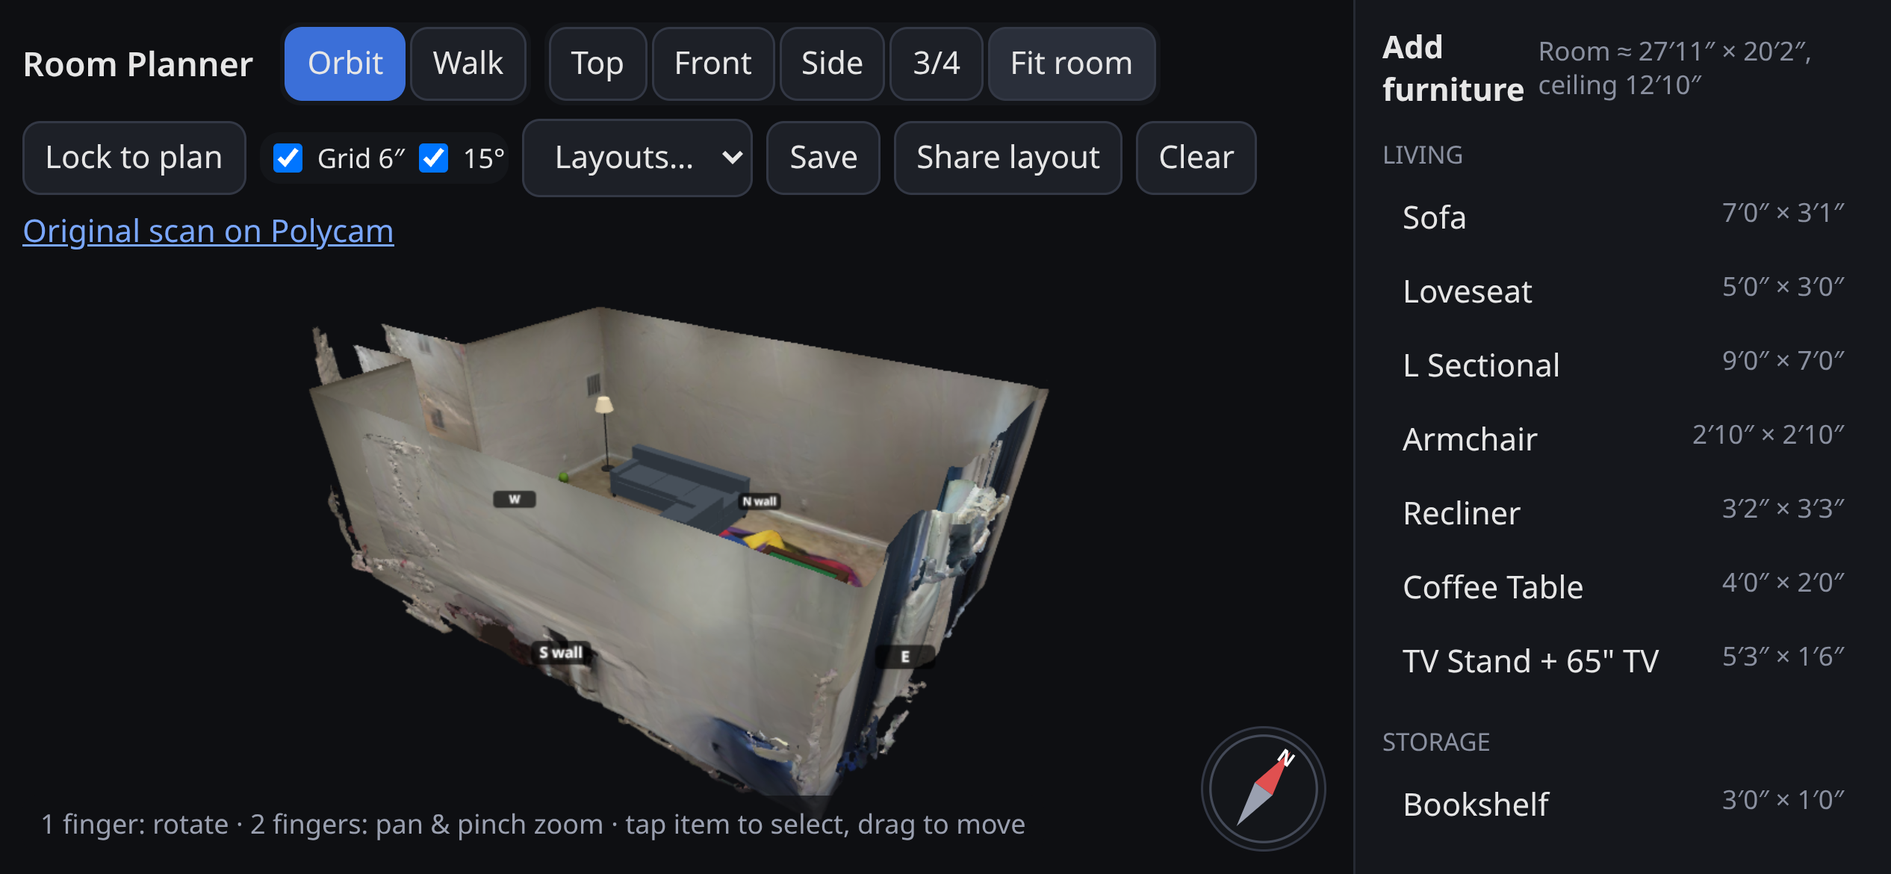
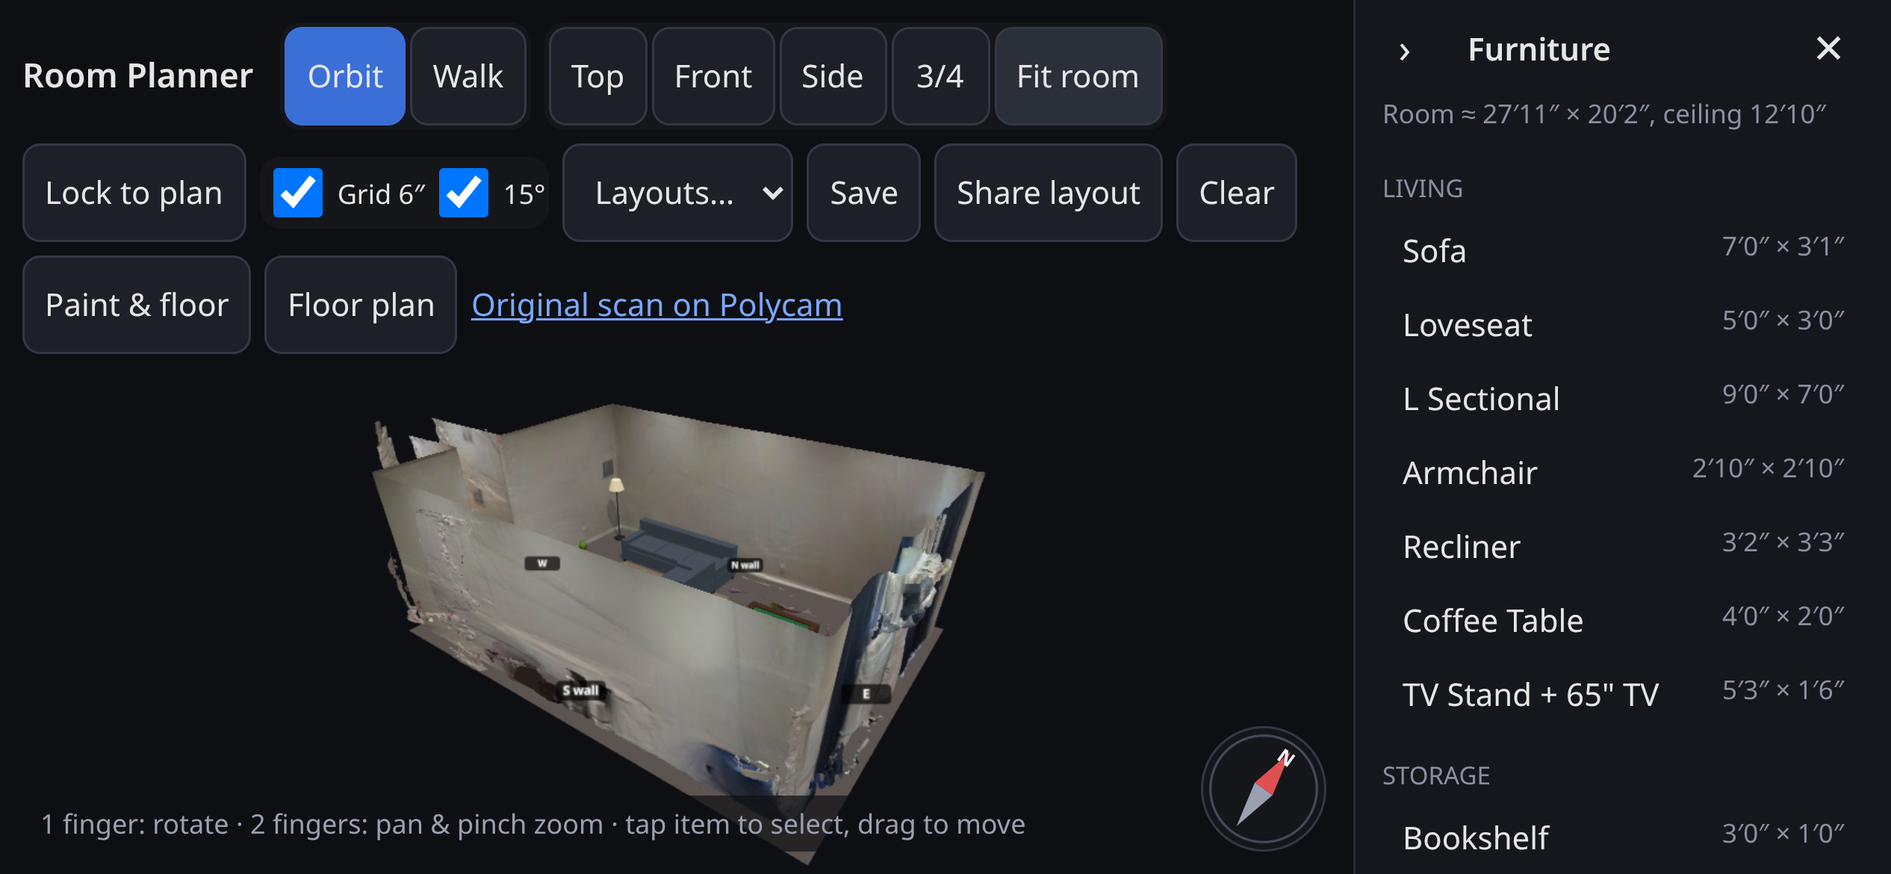
Floor plan export, paint & flooring preview, hide-clutter toggle

diff --git a/index.html b/index.html
@@ -17,6 +17,11 @@ button,select,input{background:#1d2027;color:#e6e6e6;border:1px solid #333845;bo
 #compass{position:absolute;right:12px;top:58px;width:56px;height:56px;border-radius:50%;background:#15171cd0;border:1px solid #333845}
 #compass svg{width:100%;height:100%;transition:transform .05s}
 #joy{position:absolute;left:24px;bottom:60px;width:110px;height:110px;border-radius:50%;background:#ffffff14;border:1px solid #ffffff30;display:none;touch-action:none}#joy i{position:absolute;left:35px;top:35px;width:40px;height:40px;border-radius:50%;background:#ffffff50}
+.card{position:absolute;top:110px;left:10px;width:280px;max-width:calc(100% - 20px);background:#15171cf5;border:1px solid #2a2f3a;border-radius:12px;padding:12px;display:none;z-index:4}.card.open{display:block}
+.ch{display:flex;justify-content:space-between;align-items:center}.x{min-width:44px;min-height:44px;background:none;border:0;font-size:16px}.lbl{color:#8a90a0;font-size:11px;text-transform:uppercase;margin:8px 0 4px}
+#sw,#fl{display:flex;flex-wrap:wrap;gap:6px}.swb{width:44px;height:44px;border-radius:10px;padding:0;border:2px solid #333845}.swb.on,.flb.on{outline:2px solid #4d8dff;outline-offset:1px}.flb{min-height:44px;padding:0 10px;display:flex;align-items:center;gap:6px}.flb i{width:24px;height:24px;border-radius:5px;background-size:cover;display:inline-block}
+#planM{position:fixed;inset:0;background:#000b;display:none;align-items:center;justify-content:center;z-index:20;padding:12px}#planM.open{display:flex}#planM .pc{background:#15171c;border-radius:12px;padding:12px;max-width:100%;max-height:100%;overflow:auto}#planImg{display:block;max-width:min(1000px,100%);max-height:70vh;background:#fff;border-radius:6px}
+@media print{body>*:not(#planM){display:none!important}#planM{position:static;background:#fff;display:block!important;padding:0}#planM .ch,#planM .pc>div:last-child{display:none!important}#planM .pc{background:#fff;padding:0}#planImg{max-width:100%;max-height:none;width:100%}@page{size:landscape;margin:10mm}}
 #toast{position:absolute;top:60px;left:50%;transform:translateX(-50%);background:#3b6fd8;padding:8px 14px;border-radius:8px;display:none}
 #load{position:fixed;inset:0;display:flex;align-items:center;justify-content:center;font-size:16px;background:#0e0f12;z-index:9}
 @media(pointer:coarse){button,select{min-height:44px;min-width:44px}input[type=checkbox]{width:22px;height:22px}}
@@ -33,16 +38,20 @@ label{display:flex;gap:4px;align-items:center;font-size:12px}
 <div class="grp"><button data-v="top">Top</button><button data-v="front">Front</button><button data-v="side">Side</button><button data-v="iso">3/4</button><button id="fit" title="F">Fit room</button></div>
 <button id="lock">Lock to plan</button>
 <div class="grp"><label><input type="checkbox" id="snapG" checked>Grid 6″</label><label><input type="checkbox" id="snapA" checked>15°</label></div>
-<select id="layouts"><option value="">Layouts…</option></select><button id="save">Save</button><button id="share">Share layout</button><button id="clear">Clear</button>
+<select id="layouts"><option value="">Layouts…</option></select><button id="save">Save</button><button id="share">Share layout</button><button id="clear">Clear</button><button id="paintBtn">Paint & floor</button><button id="planBtn">Floor plan</button>
 <a href="https://poly.cam/capture/0503709E-BDD0-4D62-BD74-C1BD9F886780" target="_blank" rel="noopener">Original scan on Polycam</a></div>
 <div id="compass" title="Compass: N is the far wall in Top view"><svg viewBox="-50 -50 100 100"><circle r="44" fill="none" stroke="#444a58" stroke-width="2"/><path d="M0-38L9 0H-9Z" fill="#e05050"/><path d="M0 38L9 0H-9Z" fill="#9aa0b0"/><text y="-22" text-anchor="middle" fill="#fff" font-size="16" font-weight="700" transform="translate(0,-4)">N</text></svg></div>
 <div id="sel"><b id="selName"></b><small id="selDim" style="color:#8a90a0"></small><label>↻<input type="range" id="rotS" min="0" max="359" step="15" style="width:110px"><span id="rotV"></span></label><input type="color" id="col"><button id="dup">Duplicate</button><button id="del">Delete</button><button id="desel">Done</button></div>
+<div id="paint" class="card"><div class="ch"><b>Paint & flooring</b><button class="x" data-close="paint">✕</button></div>
+<div class="lbl">Walls</div><div id="sw"></div><label style="margin-top:6px">Custom <input type="color" id="wallPick" value="#cfc6b8"></label>
+<div class="lbl">Floor</div><div id="fl"></div><label style="margin-top:10px;min-height:44px"><input type="checkbox" id="hideC" checked style="width:22px;height:22px"> Hide clutter (inflatable &amp; floor items)</label><button id="paintReset" style="margin-top:10px;width:100%">Reset to original scan</button></div>
 <div id="joy"><i></i></div><div id="toast"></div><div id="hint"></div></div>
-<div id="side"><div id="handle"><i id="grip"></i><button class="hb" id="ptog" title="Minimize/expand panel (P)" aria-label="Toggle panel">›</button><span id="ptitle">Furniture</span><button class="hb" id="pclose" title="Hide panel" aria-label="Hide panel">✕</button></div><small id="roomdim"></small><div id="list"></div></div><button id="pill" aria-label="Show furniture panel">☰ Furniture</button>
+<div id="side"><div id="handle"><i id="grip"></i><button class="hb" id="ptog" title="Minimize/expand panel (P)" aria-label="Toggle panel">›</button><span id="ptitle">Furniture</span><button class="hb" id="pclose" title="Hide panel" aria-label="Hide panel">✕</button></div><small id="roomdim"></small><div id="list"></div></div><div id="planM"><div class="pc"><div class="ch"><b>Floor plan</b><button class="x" data-close="planM">✕</button></div><img id="planImg" alt="Floor plan"><div style="display:flex;gap:8px;flex-wrap:wrap;margin-top:10px"><button id="dlPng">Download PNG</button><button id="dlPdf">Download PDF</button><button id="prPlan">Print</button></div></div></div><button id="pill" aria-label="Show furniture panel">☰ Furniture</button>
 <script type="module">
 import * as THREE from 'three';import {OrbitControls} from 'three/addons/controls/OrbitControls.js';import {GLTFLoader} from 'three/addons/loaders/GLTFLoader.js';
-import {catalog,setColor} from './furniture.js';
+import {catalog,setColor} from './furniture.js';import {FLOORS,SWATCHES,patchRoom,applyPaint,U as PU,MASK,loadMask} from './paint.js';import {renderPlan} from './plan.js';
 const B={x0:-4.26,x1:4.26,z0:-3.07,z1:3.07,ceil:3.9};const EYE=1.676,ROOM_ROT=-1.58*Math.PI/180,GRID=0.1524;
+let paint={w:null,f:'scan',h:true};let wallPts=[];
 const touch=matchMedia('(pointer:coarse)').matches;
 const ft=m=>{const i=Math.round(m*39.3701);return `${Math.floor(i/12)}′${i%12}″`;};
 document.getElementById('roomdim').textContent=`Room ≈ ${ft(B.x1-B.x0)} × ${ft(B.z1-B.z0)}, ceiling ${ft(B.ceil)}`;
@@ -80,7 +89,9 @@ document.getElementById('fit').onclick=()=>{if(mode!=='orbit')setMode('orbit');g
 function setLock(on){locked=on;document.getElementById('lock').classList.toggle('on',on);oc.enableRotate=!on;if(on){if(mode!=='orbit')setMode('orbit');goView('top');}}
 document.getElementById('lock').onclick=()=>setLock(!locked);
 // load room
-let room;new GLTFLoader().load('room.glb',g=>{room=g.scene;room.rotation.y=ROOM_ROT;room.traverse(o=>{if(o.isMesh){o.receiveShadow=true;o.material.side=THREE.DoubleSide;o.material.clippingPlanes=[clip];}});S.add(room);window.roomLoaded=true;document.getElementById('load').remove();},undefined,()=>{document.getElementById('load').textContent='Could not load room scan';});
+const maskReady=loadMask('clutter-mask.png');
+const fill=new THREE.Mesh(new THREE.PlaneGeometry(B.x1-B.x0+0.4,B.z1-B.z0+0.4),new THREE.MeshStandardMaterial({color:0x615955,roughness:0.95}));fill.rotation.x=-Math.PI/2;fill.position.y=-0.006;fill.material.clippingPlanes=[clip];patchRoom(fill.material);S.add(fill);
+let room;new GLTFLoader().load('room.glb',g=>{room=g.scene;room.rotation.y=ROOM_ROT;room.traverse(o=>{if(o.isMesh){o.receiveShadow=true;o.material.side=THREE.DoubleSide;if(!o.geometry.attributes.normal)o.geometry.computeVertexNormals();o.material.clippingPlanes=[clip];patchRoom(o.material);}});room.updateMatrixWorld(true);maskReady.then(()=>{wallPts=collectWalls(room);applyPaint(paint);PU.uHide.value=paint.h===false?0:1;window.roomLoaded=true;});S.add(room);document.getElementById('load').remove();},undefined,()=>{document.getElementById('load').textContent='Could not load room scan';});
 // furniture list
 const byCat={};catalog.forEach(c=>(byCat[c.category]??=[]).push(c));const L=document.getElementById('list');
 for(const k in byCat){L.insertAdjacentHTML('beforeend',`<div class="cat">${k}</div>`);for(const c of byCat[k]){const d=document.createElement('div');d.className='item';d.innerHTML=`<span>${c.name}</span><small>${ft(c.dims.w)} × ${ft(c.dims.d)}</small>`;d.onclick=()=>{const t=mode==='orbit'?oc.target:cam.position;select(addItem(c.id,{x:t.x,z:t.z,r:0}));};L.appendChild(d);}}
@@ -145,8 +156,9 @@ function tick(){const dt=Math.min(clock.getDelta(),0.1);let az;
  csvg.style.transform=`rotate(${THREE.MathUtils.radToDeg(az)}deg)`;R.render(S,cam);requestAnimationFrame(tick);}
 resize();goView('iso',false);hint();tick();
 // layouts
-const ser=()=>items.map(o=>({i:o.userData.itemId,x:+o.position.x.toFixed(2),z:+o.position.z.toFixed(2),r:o.userData.rot,...(o.userData.color?{c:o.userData.color}:{})}));
-function load(arr){items.slice().forEach(o=>S.remove(o));items.length=0;select(null);(arr||[]).forEach(s=>addItem(s.i,s));}
+const serItems=()=>items.map(o=>({i:o.userData.itemId,x:+o.position.x.toFixed(2),z:+o.position.z.toFixed(2),r:o.userData.rot,...(o.userData.color?{c:o.userData.color}:{})}));
+const ser=()=>({items:serItems(),...(paint.w?{w:paint.w}:{}),...(paint.f&&paint.f!=='scan'?{f:paint.f}:{}),...(paint.h===false?{h:0}:{})});
+function load(data){const arr=Array.isArray(data)?data:(data?.items||[]);items.slice().forEach(o=>S.remove(o));items.length=0;select(null);arr.forEach(s=>addItem(s.i,s));setPaint(Array.isArray(data)?{}:{w:data?.w||null,f:data?.f||'scan',h:data?.h!==0});}
 const LS='basementLayouts';const getL=()=>JSON.parse(localStorage.getItem(LS)||'{}');
 function refreshL(){const s=document.getElementById('layouts');s.innerHTML='<option value="">Layouts…</option>'+Object.keys(getL()).map(k=>`<option>${k.replace(/</g,'&lt;')}</option>`).join('');}refreshL();
 document.getElementById('save').onclick=()=>{const n=prompt('Layout name','Layout '+(Object.keys(getL()).length+1));if(!n)return;const l=getL();l[n]=ser();localStorage.setItem(LS,JSON.stringify(l));refreshL();toast('Saved “'+n+'”');};
@@ -170,6 +182,26 @@ addEventListener('keydown',e=>{if(e.key.toLowerCase()==='p'&&!['INPUT','SELECT']
  h.addEventListener('pointercancel',()=>y0=null);}
 addEventListener('resize',()=>setPanel(panel,false));setPanel(panel,false);
 window.setPanel=setPanel;
-window.planner={items,addItem,ser,enc,dec,load,select,cam,goView,setLock,isAnimating:()=>!!anim,
+// ---- paint & floor
+function collectWalls(root){const out=[];const v=new THREE.Vector3(),n=new THREE.Vector3();root.traverse(o=>{if(!o.isMesh)return;const P=o.geometry.attributes.position,N=o.geometry.attributes.normal;if(!N)return;const nm=new THREE.Matrix3().getNormalMatrix(o.matrixWorld);const step=Math.max(1,Math.floor(P.count/60000));
+ for(let i=0;i<P.count;i+=step){n.fromBufferAttribute(N,i).applyMatrix3(nm).normalize();if(Math.abs(n.y)>0.3)continue;v.fromBufferAttribute(P,i).applyMatrix4(o.matrixWorld);if(v.y<0.4||v.y>2.2)continue;if(v.x<B.x0-0.3||v.x>B.x1+0.3||v.z<B.z0-0.3||v.z>B.z1+0.3)continue;out.push(v.x,v.z,MASK.test&&MASK.test(v.x,v.z)?1:0);}});return out;}
+function setPaint(p){paint={w:p.w||null,f:p.f||'scan',h:p.h!==false};applyPaint(paint);PU.uHide.value=paint.h?1:0;const hc=document.getElementById('hideC');if(hc)hc.checked=paint.h;document.querySelectorAll('.swb').forEach(b=>b.classList.toggle('on',(b.dataset.c||null)===paint.w));document.querySelectorAll('.flb').forEach(b=>b.classList.toggle('on',b.dataset.f===paint.f));}
+{const sw=document.getElementById('sw');for(const [n,c] of SWATCHES){const b=document.createElement('button');b.className='swb';b.title=n;b.setAttribute('aria-label',n);if(c){b.dataset.c=c;b.style.background=c;}else{b.textContent='∅';}b.onclick=()=>setPaint({...paint,w:c});sw.appendChild(b);}
+ document.getElementById('wallPick').oninput=e=>setPaint({...paint,w:e.target.value});
+ const fl=document.getElementById('fl');for(const id in FLOORS){const b=document.createElement('button');b.className='flb';b.dataset.f=id;b.textContent=FLOORS[id].name;b.onclick=()=>setPaint({...paint,f:id});fl.appendChild(b);}
+ document.getElementById('paintReset').onclick=()=>setPaint({h:paint.h});document.getElementById('hideC').onchange=e=>setPaint({...paint,h:e.target.checked});setPaint(paint);}
+document.querySelectorAll('[data-close]').forEach(b=>b.onclick=()=>document.getElementById(b.dataset.close).classList.remove('open'));
+document.getElementById('paintBtn').onclick=()=>document.getElementById('paint').classList.toggle('open');
+// ---- floor plan export
+let planCanvas=null;
+function makePlan(){const wp=[];for(let i=0;i<wallPts.length;i+=3)if(!(paint.h!==false&&wallPts[i+2]))wp.push(wallPts[i],wallPts[i+1]);planCanvas=renderPlan({B,wallPts:wp,items:serItems(),cat,paint});document.getElementById('planImg').src=planCanvas.toDataURL('image/png');document.getElementById('planM').classList.add('open');return planCanvas;}
+document.getElementById('planBtn').onclick=makePlan;
+function dlFile(url,name){const a=document.createElement('a');a.href=url;a.download=name;document.body.appendChild(a);a.click();a.remove();}
+document.getElementById('dlPng').onclick=()=>planCanvas.toBlob(b=>{const u=URL.createObjectURL(b);dlFile(u,'floor-plan.png');setTimeout(()=>URL.revokeObjectURL(u),5000);});
+function loadJsPDF(){return window.jspdf?Promise.resolve():new Promise((ok,no)=>{const sc=document.createElement('script');sc.src='https://cdn.jsdelivr.net/npm/jspdf@2.5.1/dist/jspdf.umd.min.js';sc.onload=ok;sc.onerror=no;document.head.appendChild(sc);});}
+document.getElementById('dlPdf').onclick=async()=>{try{await loadJsPDF();const pdf=new window.jspdf.jsPDF({orientation:'landscape',unit:'pt',format:'letter'});const pw=pdf.internal.pageSize.getWidth(),ph=pdf.internal.pageSize.getHeight(),m=24;const r=Math.min((pw-2*m)/planCanvas.width,(ph-2*m)/planCanvas.height);
+ pdf.addImage(planCanvas.toDataURL('image/jpeg',0.92),'JPEG',(pw-planCanvas.width*r)/2,(ph-planCanvas.height*r)/2,planCanvas.width*r,planCanvas.height*r);pdf.save('floor-plan.pdf');}catch(e){toast('PDF unavailable, using Print');window.print();}};
+document.getElementById('prPlan').onclick=()=>window.print();
+window.planner={makePlan,setPaint,getPaint:()=>paint,wallCount:()=>wallPts.length/3,items,addItem,ser,enc,dec,load,select,cam,goView,setLock,isAnimating:()=>!!anim,
  framed(){cam.updateMatrixWorld();let ok=true;for(const x of[B.x0,B.x1])for(const z of[B.z0,B.z1]){const v=new THREE.Vector3(x,0,z).project(cam);if(Math.abs(v.x)>1.001||Math.abs(v.y)>1.001)ok=false;}return ok;}};
 </script></body></html>

diff --git a/paint.js b/paint.js
@@ -1,0 +1,36 @@
+import * as THREE from 'three';
+// Procedural, original floor textures drawn on canvas. size = meters covered by one tile of the texture.
+function cnv(n=512){const c=document.createElement('canvas');c.width=c.height=n;return [c,c.getContext('2d')];}
+const rnd=(s=>()=>(s=(s*16807)%2147483647)/2147483647)(42);
+function noise(g,n,a,base){const im=g.getImageData(0,0,n,n),d=im.data;for(let i=0;i<d.length;i+=4){const v=(rnd()-0.5)*a;d[i]+=v;d[i+1]+=v;d[i+2]+=v;}g.putImageData(im,0,0);}
+function planks(g,n,rows,cols,base,var_,grain,gap){const h=n/rows;for(let r=0;r<rows;r++){const off=(r*0.37%1)*n;for(let k=-1;k<cols;k++){const x=off+k*n/cols;const c=base.map(v=>v+(rnd()-0.5)*var_);g.fillStyle=`rgb(${c})`;g.fillRect(((x%n)+n)%n,r*h,n/cols,h);if(((x%n)+n)%n+n/cols>n)g.fillRect(((x%n)+n)%n-n,r*h,n/cols,h);}
+ for(let i=0;i<grain;i++){g.strokeStyle=`rgba(0,0,0,${0.03+rnd()*0.06})`;g.lineWidth=1+rnd()*1.5;const y=r*h+rnd()*h;g.beginPath();g.moveTo(0,y);for(let x=0;x<=n;x+=32)g.lineTo(x,y+Math.sin(x/40+i)*2);g.stroke();}
+ g.fillStyle=gap;g.fillRect(0,r*h,n,2);}}
+export const FLOORS={
+ scan:{name:'Original scan'},
+ carpet:{name:'Carpet',size:1,draw(g,n){g.fillStyle='#8c8072';g.fillRect(0,0,n,n);noise(g,n,46);}},
+ hardwood:{name:'Hardwood',size:1.2,draw(g,n){planks(g,n,9,3,[150,98,58],40,10,'rgba(40,20,10,.6)');}},
+ lvp:{name:'LVP',size:1.8,draw(g,n){planks(g,n,7,2,[176,160,138],22,6,'rgba(60,50,40,.45)');}},
+ tile:{name:'Tile',size:1.2192,draw(g,n){const t=n/4;for(let i=0;i<4;i++)for(let j=0;j<4;j++){const v=212+(rnd()-0.5)*14;g.fillStyle=`rgb(${v},${v-3},${v-8})`;g.fillRect(i*t,j*t,t,t);}noise(g,n,10);g.fillStyle='#8f8a84';for(let i=0;i<=4;i++){g.fillRect(i*t-2,0,4,n);g.fillRect(0,i*t-2,n,4);}}},
+ concrete:{name:'Concrete',size:2.5,draw(g,n){g.fillStyle='#9a9894';g.fillRect(0,0,n,n);for(let i=0;i<60;i++){g.fillStyle=`rgba(${rnd()<.5?0:255},${rnd()<.5?0:255},${rnd()<.5?0:255},0)`;const v=rnd()<.5?60:200;g.fillStyle=`rgba(${v},${v},${v},.06)`;g.beginPath();g.arc(rnd()*n,rnd()*n,20+rnd()*80,0,7);g.fill();}noise(g,n,24);}},
+};
+export const SWATCHES=[['Original',null],['Warm white','#f2ede3'],['Greige','#cfc6b8'],['Sage','#a9b8a0'],['Sky','#a9c2d6'],['Navy','#2f3f5c'],['Terracotta','#c27a5a'],['Charcoal','#4a4c50']];
+const cache={};function floorTex(id){if(cache[id])return cache[id];const [c,g]=cnv();FLOORS[id].draw(g,512);const t=new THREE.CanvasTexture(c);t.wrapS=t.wrapT=THREE.RepeatWrapping;t.colorSpace=THREE.SRGBColorSpace;t.anisotropy=4;return cache[id]=t;}
+export const U={uFloorOn:{value:0},uFloorMap:{value:null},uFloorScale:{value:1},uWallOn:{value:0},uWallColor:{value:new THREE.Color()},uHide:{value:1},uMask:{value:null}};
+export const MASK={x0:-4.3,z0:-3.1,w:8.8,d:6.4,margin:0.35};
+// Patch the scan material: faces facing up near y=0 = floor; near-vertical faces above the floor = walls.
+export function patchRoom(mat){mat.onBeforeCompile=sh=>{Object.assign(sh.uniforms,U);
+ sh.vertexShader=sh.vertexShader.replace('#include <common>','#include <common>\nvarying vec3 vWP;varying vec3 vWN;').replace('#include <worldpos_vertex>','#include <worldpos_vertex>\nvWP=(modelMatrix*vec4(transformed,1.0)).xyz;vWN=normalize(mat3(modelMatrix)*objectNormal);');
+ sh.fragmentShader=sh.fragmentShader.replace('#include <common>','#include <common>\nvarying vec3 vWP;varying vec3 vWN;uniform float uFloorOn,uFloorScale,uWallOn;uniform sampler2D uFloorMap;uniform vec3 uWallColor;uniform float uHide;uniform sampler2D uMask;')
+ .replace('#include <map_fragment>',`#include <map_fragment>
+ if(uHide>0.5 && (vWP.y>0.03 || (max(max(diffuseColor.r,diffuseColor.g),diffuseColor.b)-min(min(diffuseColor.r,diffuseColor.g),diffuseColor.b))>0.12) && vWP.x>-3.95 && vWP.x<3.95 && vWP.z>-2.75 && vWP.z<2.75 && texture2D(uMask,vec2((vWP.x+4.3)/8.8,(vWP.z+3.1)/6.4)).r>0.5) discard;
+ {vec3 n=normalize(vWN);float lum=dot(diffuseColor.rgb,vec3(.299,.587,.114));
+  if(uFloorOn>0.5 && vWP.y<0.25 && abs(n.y)>0.75){vec3 t=texture2D(uFloorMap,vWP.xz/uFloorScale).rgb;diffuseColor.rgb=t*clamp(lum/0.42,0.55,1.25);}
+  else if(uWallOn>0.5 && abs(n.y)<0.45 && vWP.y>0.08){diffuseColor.rgb=uWallColor*clamp(lum/0.55,0.35,1.2);}}`);};
+ mat.customProgramCacheKey=()=>'roompaint';mat.needsUpdate=true;}
+export function applyPaint(p){p=p||{};const f=p.f&&FLOORS[p.f]&&p.f!=='scan'?p.f:null;U.uFloorOn.value=f?1:0;if(f){U.uFloorMap.value=floorTex(f);U.uFloorScale.value=FLOORS[f].size;}
+ U.uWallOn.value=p.w?1:0;if(p.w)U.uWallColor.value.set(p.w).convertSRGBToLinear();}
+
+export function loadMask(url){return new Promise(ok=>{const img=new Image();img.onload=()=>{const t=new THREE.Texture(img);t.magFilter=t.minFilter=THREE.NearestFilter;t.generateMipmaps=false;t.flipY=false;t.needsUpdate=true;U.uMask.value=t;
+ const c=document.createElement('canvas');c.width=img.width;c.height=img.height;const g=c.getContext('2d');g.drawImage(img,0,0);const d=g.getImageData(0,0,img.width,img.height).data;
+ MASK.test=(x,z)=>{const i=Math.floor((x-MASK.x0)/MASK.w*img.width),j=Math.floor((z-MASK.z0)/MASK.d*img.height);if(i<0||j<0||i>=img.width||j>=img.height)return false;if(x<-3.95||x>3.95||z<-2.75||z>2.75)return false;return d[(j*img.width+i)*4]>127;};ok();};img.src=url;});}

diff --git a/plan.js b/plan.js
@@ -1,0 +1,31 @@
+// Top-down floor plan renderer (2D canvas). Returns a canvas.
+const ft=m=>{const i=Math.round(m*39.3701);return `${Math.floor(i/12)}′${i%12}″`;};
+export function renderPlan({B,wallPts,items,cat,title='Room Floor Plan',paint}){
+ const W=2200,H=1600,mg=170,sx=(W-2*mg)/(B.x1-B.x0),sz=(H-2*mg-80)/(B.z1-B.z0),s=Math.min(sx,sz);
+ const ox=W/2-(B.x0+B.x1)/2*s,oz=(H+60)/2-(B.z0+B.z1)/2*s,P=(x,z)=>[ox+x*s,oz+z*s];
+ const c=document.createElement('canvas');c.width=W;c.height=H;const g=c.getContext('2d');
+ g.fillStyle='#fff';g.fillRect(0,0,W,H);g.fillStyle='#111';g.font='bold 44px system-ui,sans-serif';g.fillText(title,mg,80);
+ g.font='26px system-ui,sans-serif';g.fillStyle='#555';g.fillText(`${ft(B.x1-B.x0)} × ${ft(B.z1-B.z0)} · ceiling ${ft(B.ceil)}`+(paint?.w?` · walls ${paint.w}`:'')+(paint?.f&&paint.f!=='scan'?` · floor: ${paint.f}`:''),mg,122);
+ // floor
+ const [a,b]=P(B.x0,B.z0),[c2,d]=P(B.x1,B.z1);g.fillStyle='#f4f1ea';g.fillRect(a,b,c2-a,d-b);
+ // light grid every foot
+ g.strokeStyle='#e4e0d8';g.lineWidth=1;for(let x=B.x0;x<=B.x1;x+=0.3048){g.beginPath();g.moveTo(...P(x,B.z0));g.lineTo(...P(x,B.z1));g.stroke();}for(let z=B.z0;z<=B.z1;z+=0.3048){g.beginPath();g.moveTo(...P(B.x0,z));g.lineTo(...P(B.x1,z));g.stroke();}
+ // scanned walls as dense points
+ g.fillStyle='#2a2a2a';for(let i=0;i<wallPts.length;i+=2){const [x,y]=P(wallPts[i],wallPts[i+1]);g.fillRect(x-1.5,y-1.5,3,3);}
+ g.strokeStyle='#111';g.lineWidth=5;g.strokeRect(a,b,c2-a,d-b);
+ // dimensions
+ g.strokeStyle='#333';g.fillStyle='#111';g.lineWidth=2;g.font='bold 30px system-ui,sans-serif';g.textAlign='center';
+ const dim=(x1,y1,x2,y2,t,vert)=>{g.beginPath();g.moveTo(x1,y1);g.lineTo(x2,y2);g.stroke();for(const [x,y] of[[x1,y1],[x2,y2]]){g.beginPath();vert?(g.moveTo(x-12,y),g.lineTo(x+12,y)):(g.moveTo(x,y-12),g.lineTo(x,y+12));g.stroke();}
+  g.save();g.translate((x1+x2)/2,(y1+y2)/2);if(vert)g.rotate(-Math.PI/2);g.fillStyle='#fff';const w=g.measureText(t).width+16;g.fillRect(-w/2,-20,w,40);g.fillStyle='#111';g.fillText(t,0,10);g.restore();};
+ dim(a,d+55,c2,d+55,ft(B.x1-B.x0));dim(a-55,b,a-55,d,ft(B.z1-B.z0),true);
+ // furniture
+ for(const it of items){const c=cat(it.i);if(!c)continue;const [x,y]=P(it.x,it.z);g.save();g.translate(x,y);g.rotate(-(it.r||0)*Math.PI/180);
+  g.fillStyle=(it.c||'#7d8ea3')+'55';g.strokeStyle='#1f3b66';g.lineWidth=3;g.fillRect(-c.dims.w*s/2,-c.dims.d*s/2,c.dims.w*s,c.dims.d*s);g.strokeRect(-c.dims.w*s/2,-c.dims.d*s/2,c.dims.w*s,c.dims.d*s);
+  g.beginPath();g.moveTo(-c.dims.w*s/2+6,c.dims.d*s/2-6);g.lineTo(c.dims.w*s/2-6,c.dims.d*s/2-6);g.strokeStyle='#1f3b6688';g.stroke();g.restore();
+  const fs=Math.max(16,Math.min(26,c.dims.w*s/7));g.font=`bold ${fs}px system-ui,sans-serif`;g.fillStyle='#0d1b33';g.fillText(c.name,x,y-2);g.font=`${fs*0.85}px system-ui,sans-serif`;g.fillStyle='#334';g.fillText(`${ft(c.dims.w)} × ${ft(c.dims.d)}`,x,y+fs);}
+ // scale bar 5 ft
+ g.textAlign='left';const L=5*0.3048*s,bx=W-mg-L,by=H-60;g.fillStyle='#111';for(let i=0;i<5;i++){g.fillStyle=i%2?'#fff':'#111';g.fillRect(bx+i*L/5,by,L/5,14);}g.strokeStyle='#111';g.strokeRect(bx,by,L,14);g.fillStyle='#111';g.font='24px system-ui,sans-serif';g.fillText('0',bx-6,by-10);g.fillText('5 ft',bx+L-20,by-10);
+ // north arrow
+ const nx=W-mg+60,ny=110;g.fillStyle='#c33';g.beginPath();g.moveTo(nx,ny-55);g.lineTo(nx+22,ny+15);g.lineTo(nx,ny);g.lineTo(nx-22,ny+15);g.closePath();g.fill();g.fillStyle='#111';g.font='bold 34px system-ui,sans-serif';g.textAlign='center';g.fillText('N',nx,ny+55);
+ g.textAlign='left';g.font='20px system-ui,sans-serif';g.fillStyle='#888';g.fillText('Generated with Room Planner · furniture sizes approximate · scan from Polycam',mg,H-30);
+ return c;}
